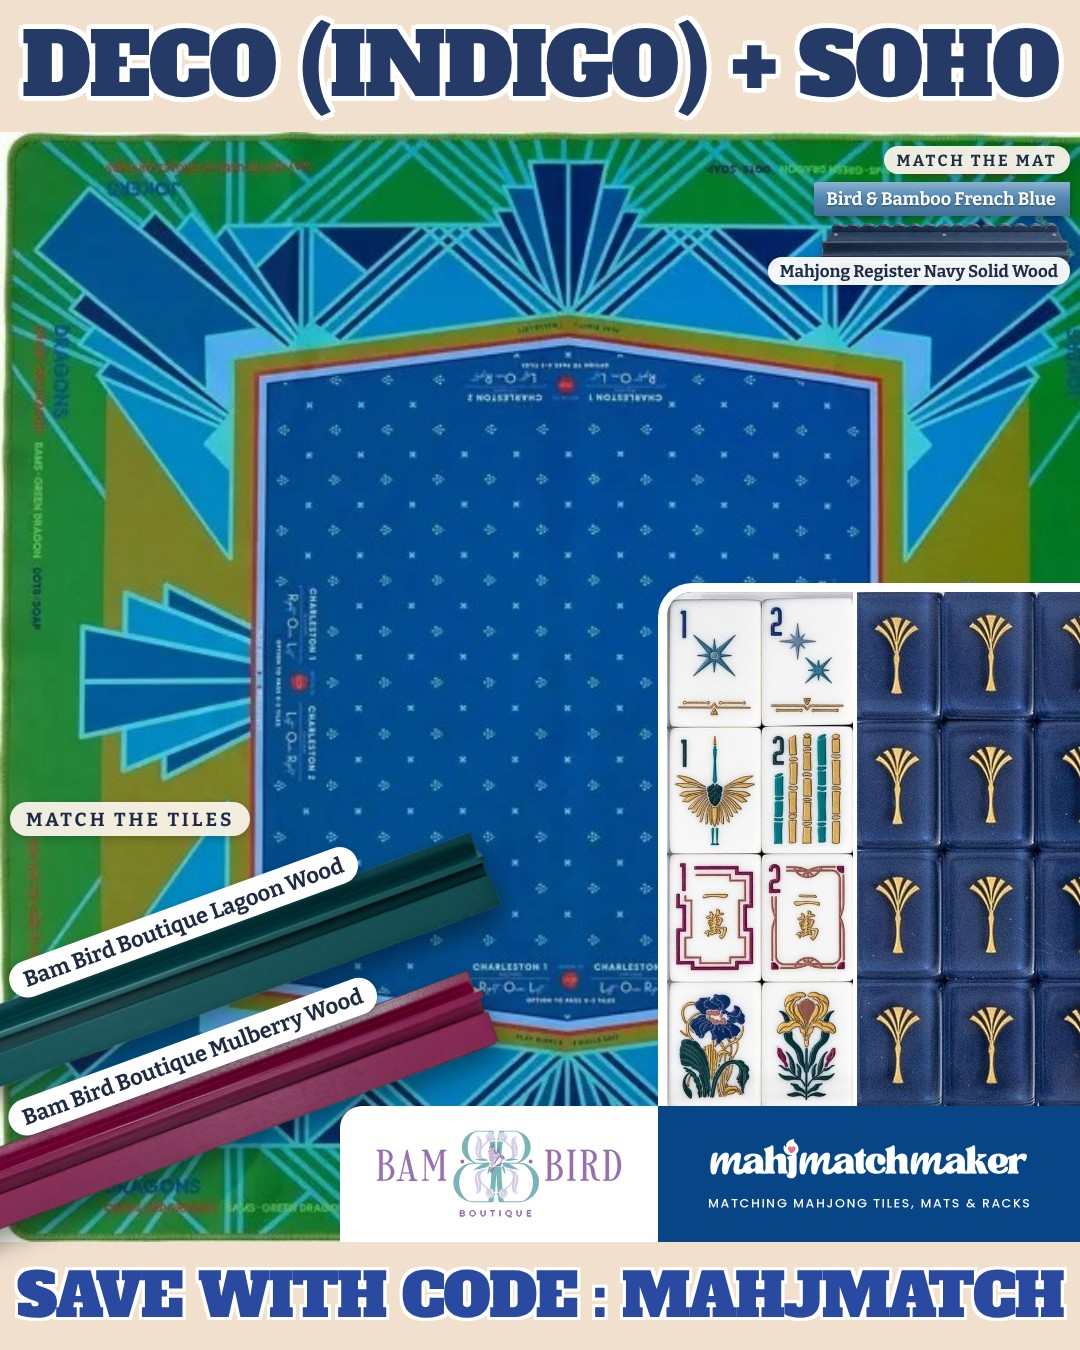
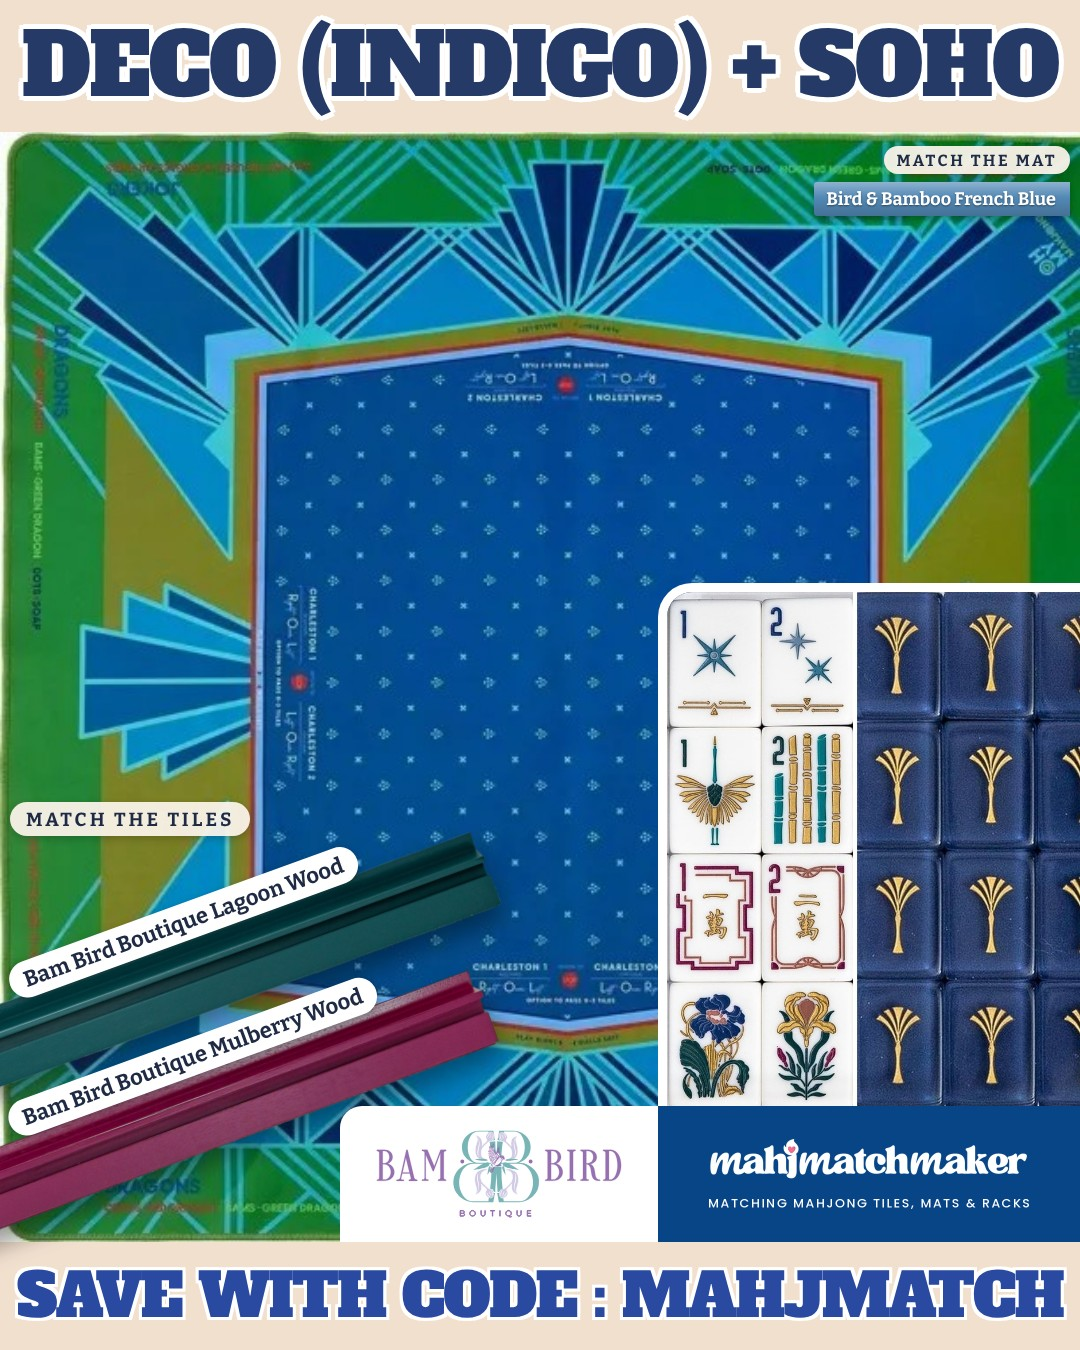
Deco re-pull with scripts/albumreview/pull.py: Indigo + Darjeeling Peacock (Navy Floral) standout + Scarlett; Mulberry left-out adds; album_gate [4b] committed pull required; Isla Leatherette staged for FYM 1.19 (Britt Mills 70/70)
Claude-Session: https://claude.ai/code/session_01U7RfeJEDwDLRZnhiPmiFwy

Changed region(s): [[0.7028, 0.1556, 1.0, 0.2178]]

diff --git a/scripts/checks/album_gate.py b/scripts/checks/album_gate.py
@@ -13,6 +13,7 @@ Checks, in playbook order:
   [0] tile photo        record tile_photo approved_at set (her yes in chat; scripts/checks/tile_photo_check.py)
   [3c] mat discovery   record discovery {at, searches[]} (light Google/Etsy/Amazon search; finds may be empty) + variety warning
   [4] pool              record pool.size > 0 and pool.sources
+  [4b] committed pull   record pool.pulled_by = scripts/albumreview/pull.py and pool.no_photo = 0
   [4a] catalog fresh    record catalog_checked.at the same day as pool.pulled_at and not after it
                         (scripts/albumreview/catalog_refresh.py: ShopMy every collection + partner-store sweep)
   [5] by-sight pass     the left-out list exists, has mats, and every mat has a reason
@@ -99,6 +100,10 @@ def check(s):
     pool = rec.get('pool') or {}
     if not pool.get('size') or not pool.get('sources'): bad.append('[4] no candidate pool on record (record pool.size + sources)')
     proof['pool'] = pool
+    # [4b] the pull is the committed one (Nov 8, after Tiffany caught Britt Mills Scarlett + Flora missing from Deco Lagoon: the
+    # scratch pull silently dropped 13 scored mats with no gallery photo and never showed the contrast side)
+    if pool and (pool.get('pulled_by') != 'scripts/albumreview/pull.py' or pool.get('no_photo', 1) != 0):
+        bad.append(f'[4b] pool not pulled by scripts/albumreview/pull.py (every FYM photo, no silent drops, contrast side on the sheets): run python3 scripts/albumreview/pull.py {s} <out> --record and judge its miss sheets')
     # [4a] catalog up to date before the pull (Tiffany Nov 8 1:33pm): catalog_checked the same day as pool.pulled_at, not after it
     ck = rec.get('catalog_checked') or {}
     import datetime as _dt

diff --git a/docs/ANSWERS.md b/docs/ANSWERS.md
@@ -1186,3 +1186,4 @@ Tiffany: tabletop room images look AI, don't want them. Use the clean flat/aeria
 - 2026-11-08 ~14:35 (Matches & Catalog subagent) DONE Tiffany 2:12pm rack rules on the Deco albums: new partner racks reviewed (Brand Watch + Mahjong Register's Oct 24/31 lines; Mahj Mood Jade, Miss Mahjong Nov 10 drop noted); Mahjong Register Peacock Teal (in stock), Navy Solid Wood (in stock) and Admiral Navy (brand new, sold out: max 2 cards per album with a page note) cut out from brand photos (looked at on white + navy) and preferred after Bam Bird's own racks; no rack on more than 6 cards of an album. Scalloped tortoise replacement sheet: assets/racks/candidates/tortoise-scalloped-replacement-sheet-nov08.jpg; recommendation = Mahjong Register Tortoise Club Scalloped ($135, in stock), cut-out candidate assets/racks/candidates/mahjong-register-tortoise-club-scalloped.png. docs/SHOPMY-INTAKE.md step 2: Amazon pins enter FYM like every ShopMy mat (her 2:08pm).
 - 2026-11-08 14:35 (Matches & Catalog) Tiffany: Lagoon pull MISSED Britt Mills Scarlett (berry sister of Reba; likely her top match) and Flora; Mat Gallery/FYM/catalog must be fully in sync with brand sites. Checked: FYM has 70/70 Britt Mills mahjong mats except Isla Leatherette; gallery shows twins as one card. Fix running: both added to Lagoon (appended, marked NEW), cause of the miss fixed in the pull, Mulberry/Indigo re-checked, Isla Leatherette staged for 1.19.
 - 2026-11-08 14:42 (Matches & Catalog) Tiffany marked Lagoon DONE (round 1, her order saved) and is waiting for the update with Scarlett + Flora (and any other true misses) to place.
+- 2026-11-08 ~3:05pm (Matches & Catalog subagent) DONE Tiffany 2:35pm (Lagoon missed Britt Mills Scarlett + Flora). WHY: the Nov 7 Deco pull was a scratch script. Its by-eye contact sheets used Mat Gallery images only, and it silently dropped 13 scored mats that had no gallery image (Scarlett Neoprene, in both the Lagoon and Mulberry pools). Its tonal score ranked Flora ~190th, and she was cut by eye with no reason recorded. FIX: committed pull scripts/albumreview/pull.py. It reads every FYM photo and hard-fails if one is missing. It scores the tonal side and the contrast side (Lagoon: mulberry/rose/gold by hue band) and always puts the top of both on the miss sheets. album_gate [4b] now fails any album not pulled by it. LAGOON (review page republished, same URL): Scarlett, Flora and Fete (Peacock) (BJ&J, re-pull) appended as #31-33, marked NEW, with a 'New since you finished: 3 cards to place' box at the top (Move to #). Her saved order (30) and her Done are intact. I didn't write to review/deco-lagoon. Left out (Put it in): Vibrant Symphony, Peace Love & Mistletoe (holiday, small photo), YOTD Raspberry (More from Bespoke). INDIGO (unreviewed): Darjeeling Peacock (Navy Floral) is standout #5 and Scarlett leads Berry + teal. Darjeeling Side A and Flora went to Left out. MULBERRY: no new cards. Scarlett (berry on berry), Flora, Vibrant Symphony and Esme (retired) went to Left out. BRITT MILLS SYNC: Isla Leatherette is staged for FYM 1.19 (config/fym-partner-adds-nov08.json) and removed from partner-mat-sweep-ignore. Eden, Novella, Nutcracker, Revelry and Winter Berry all have gallery cards in v118 (the leatherette twin card; Nutcracker + Winter Berry in Holiday). Also found: the FYM photo m/111.webp (Mahj & Vine Caroline in Navy) is missing from the packed chunks; the pull used the gallery copy.
